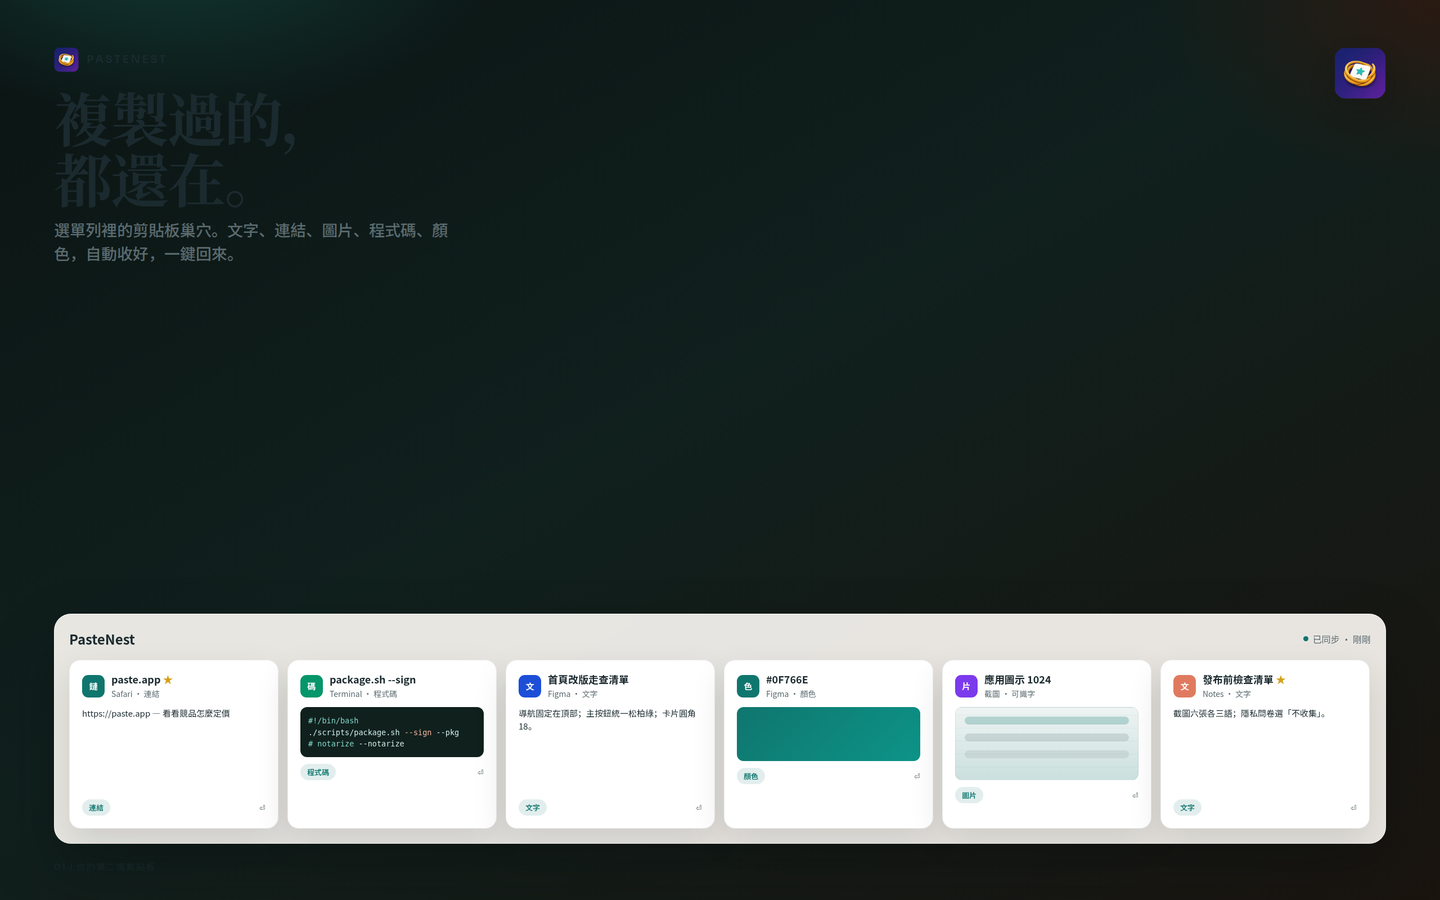
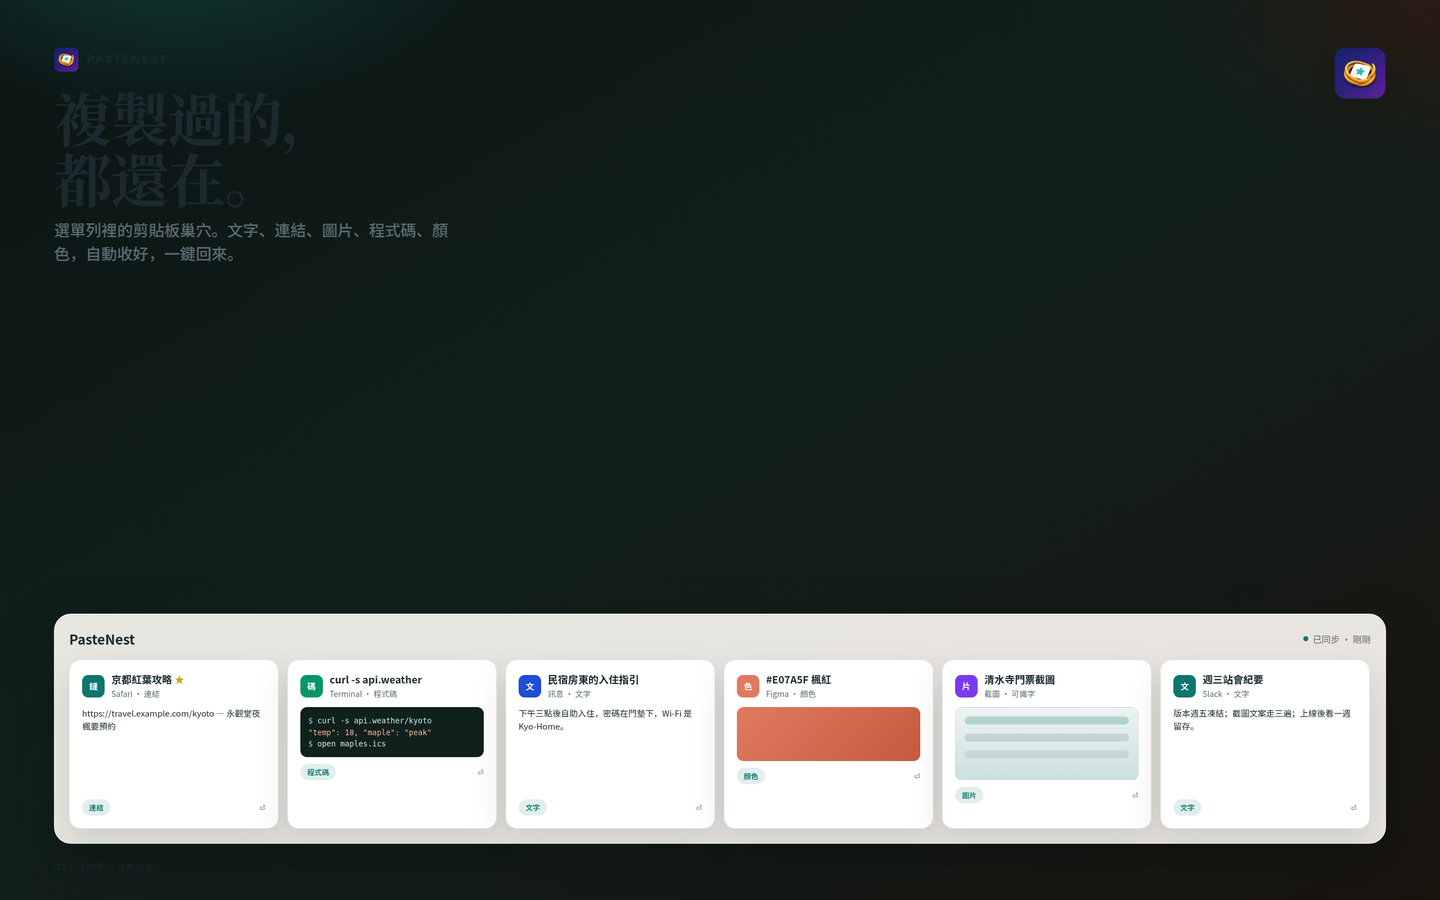
Recast App Store demo content around a Kyoto travel story.
Swap the launch-checklist scenes for a relatable trip-planning thread
(foliage guide, check-in note, ticket OCR, maple color) so the boards
read as real life rather than product self-reference.

diff --git a/docs/app-store/artboard.html b/docs/app-store/artboard.html
@@ -112,7 +112,7 @@
     #b1 .ccard .cbody { flex: 1; margin-top: 14px; font-size: 15px; line-height: 1.5; color: var(--ink); overflow: hidden; }
     #b1 .ccard .cfoot { margin-top: 12px; display: flex; align-items: center; justify-content: space-between; }
     #b1 .chip { display: inline-flex; padding: 5px 12px; border-radius: 999px; font-size: 13px; font-weight: 600; background: rgba(15,118,110,.12); color: var(--accent); }
-    #b1 .swatch { height: 96px; border-radius: 12px; background: linear-gradient(135deg,#0f766e,#0d9488); margin-top: 14px; }
+    #b1 .swatch { height: 96px; border-radius: 12px; background: linear-gradient(135deg,#e07a5f,#c65a3e); margin-top: 14px; }
     #b1 .thumb { height: 130px; border-radius: 12px; margin-top: 14px; background:
       linear-gradient(180deg, rgba(15,118,110,.0), rgba(15,118,110,.16)),
       repeating-linear-gradient(0deg,#eef4f3 0 22px,#e2eceb 22px 23px); border:1px solid var(--line); position: relative; }
@@ -439,83 +439,83 @@
       "zh-Hans": {
         1: { k: "PasteNest", h: "复制过的，<br>都还在。", s: "菜单栏里的剪贴板巢穴。文字、链接、图片、代码、颜色，自动收好，一键回来。", sync: "已同步 · 刚刚", c: "01  /  你的第二块剪贴板",
              cards: [
-               { badge: "链", bg: "#0f766e", title: "paste.app", meta: "Safari · 链接", chip: "链接", star: 1, body: "https://paste.app — 看看竞品怎么定价" },
-               { badge: "码", bg: "#059669", title: "package.sh --sign", meta: "Terminal · 代码", chip: "代码", code: true },
-               { badge: "文", bg: "#1d4ed8", title: "首页改版走查清单", meta: "Figma · 文本", chip: "文本", body: "导航固定在顶部；主按钮统一松柏绿；卡片圆角 18。" },
-               { badge: "色", bg: "#0f766e", title: "#0F766E", meta: "Figma · 颜色", chip: "颜色", swatch: true },
-               { badge: "片", bg: "#7c3aed", title: "应用图标 1024", meta: "截图 · 可识字", chip: "图片", thumb: true },
-               { badge: "文", bg: "#e07a5f", title: "发布前检查清单", meta: "Notes · 文本", chip: "文本", star: 1, body: "截图六张各三语；隐私问卷选「不收集」。" }
+               { badge: "链", bg: "#0f766e", title: "京都红叶攻略", meta: "Safari · 链接", chip: "链接", star: 1, body: "https://travel.example.com/kyoto — 永观堂夜枫要预约" },
+               { badge: "码", bg: "#059669", title: "curl -s api.weather", meta: "Terminal · 代码", chip: "代码", code: true },
+               { badge: "文", bg: "#1d4ed8", title: "民宿房东的入住指引", meta: "信息 · 文本", chip: "文本", body: "下午三点后自助入住，密码在门垫下，Wi-Fi 是 Kyo-Home。" },
+               { badge: "色", bg: "#e07a5f", title: "#E07A5F 枫红", meta: "Figma · 颜色", chip: "颜色", swatch: true },
+               { badge: "片", bg: "#7c3aed", title: "清水寺门票截图", meta: "截图 · 可识字", chip: "图片", thumb: true },
+               { badge: "文", bg: "#0f766e", title: "周三站会纪要", meta: "Slack · 文本", chip: "文本", body: "版本周五冻结；截图文案走三遍；上线后看一周留存。" }
              ] },
         2: { k: "全局快捷键", h: "按一下，<br>它就来了。", s: "底部货架、主窗口、截图各有独立快捷键。录下即刻生效，被占用会提醒，一键恢复默认。", k2: "唤出底部货架 · 回车粘贴", c: "02  /  手不离开键盘",
              setH: "全局快捷键", r1: "唤出剪贴板面板", r2: "唤出主窗口", r3: "截图（区域）", live: "已生效" },
         3: { k: "区域截图", h: "截图像发一条消息。", s: "冻结屏幕，拖出选区，矩形 / 箭头 / 画笔 / 马赛克 / 文字标注，确认后进入剪贴板与历史。", c: "03  /  标注完，直接复用" },
         4: { k: "识别文字", h: "图里的字，<br>也能搜。", s: "本机 Vision 识别中英文。可选复制，或只留文字不要图。链接会自动变成链接条目。", c: "04  /  字留在你的电脑上",
-             ocrH: "识别到的文字", ocrN: "42 字", ocrT: "把设计稿里的主按钮改成松柏绿，<br>圆角 12，悬停时上浮 1px。<br><span class=\"sel\">https://figma.com/file/pastenest</span>", cancel: "取消", copy: "复制" },
+             ocrH: "识别到的文字", ocrN: "38 字", ocrT: "清水寺 夜间特别参拜<br>11月18日 – 11月30日<br>成人 400円<br><span class=\"sel\">https://kiyomizu-dera.example.com</span>", cancel: "取消", copy: "复制" },
         5: { k: "搜索与分类", h: "不用整理，<br>它自己认得。", s: "链接、代码、颜色、文件自动打标。搜索标题、正文、来源应用，实时出结果。", c: "05  /  找得到，才算数",
-             lib: "资料库", brd: "看板", nav: ["全部","文本","链接","代码","图片","工作","灵感"], q: "设计", hits: "3 条命中",
+             lib: "资料库", brd: "看板", nav: ["全部","文本","链接","代码","图片","旅行","灵感"], q: "京都", hits: "3 条命中",
              rows: [
-               { badge: "文", bg: "#1d4ed8", title: "首页改版走查清单", meta: "Figma · 今天", on: 1 },
-               { badge: "链", bg: "#0f766e", title: "figma.com/file/pastenest", meta: "Safari · 昨天" },
-               { badge: "色", bg: "#0f766e", title: "#0F766E 松柏绿", meta: "Figma · 昨天" }
+               { badge: "链", bg: "#0f766e", title: "京都红叶攻略", meta: "Safari · 今天", on: 1 },
+               { badge: "片", bg: "#7c3aed", title: "清水寺门票截图", meta: "截图 · 昨天" },
+               { badge: "文", bg: "#1d4ed8", title: "民宿入住指引", meta: "信息 · 昨天" }
              ],
-             pvChip: "文本", pvTitle: "首页改版走查清单", pvBody: "导航固定在顶部；主按钮统一松柏绿；卡片圆角 18；列表行高 56。", m1: "来源", m2: "时间", m2v: "今天 14:32", m3: "类型", m3v: "文本" },
+             pvChip: "链接", pvTitle: "京都红叶攻略", pvBody: "永观堂夜枫要预约；清水寺夜间参拜 400 円；嵯峨野小火车买偶数日票。", m1: "来源", m2: "时间", m2v: "今天 09:12", m3: "类型", m3v: "链接" },
         6: { k: "收藏与隐私", h: "重要的，<br>留下来。", s: "收藏长期保存，其余按你设定的天数自动清理。iCloud 可选，数据走你的 Apple ID，我们碰不到。", p1: "收藏夹独立面板，可打标签", p2: "未收藏内容默认 3 天后清理", p3: "无广告、无追踪、无账号体系", c: "06  /  只存在你的 Mac 上",
-             dTitle: "发布前检查清单", dBody: "截图六张各三语；副标题「复制过的，都还在」；隐私问卷选「不收集」；价格 ¥28 买断。", t1: "工作", t2: "发布", t3: "长期保存",
-             s1: "Safari · 链接", s2: "Terminal · 代码", s3: "截图 · 可识字", s3t: "应用图标 1024" }
+             dTitle: "民宿房东的入住指引", dBody: "下午三点后自助入住，密码在门垫下，Wi-Fi 是 Kyo-Home。退房上午十点前，垃圾按可燃 / 瓶罐分。", t1: "旅行", t2: "京都", t3: "长期保存",
+             s1: "Safari · 链接", s2: "Terminal · 代码", s3: "截图 · 可识字", s3t: "清水寺门票截图" }
       },
       "zh-Hant": {
         1: { k: "PasteNest", h: "複製過的，<br>都還在。", s: "選單列裡的剪貼板巢穴。文字、連結、圖片、程式碼、顏色，自動收好，一鍵回來。", sync: "已同步 · 剛剛", c: "01  /  你的第二塊剪貼板",
              cards: [
-               { badge: "鏈", bg: "#0f766e", title: "paste.app", meta: "Safari · 連結", chip: "連結", star: 1, body: "https://paste.app — 看看競品怎麼定價" },
-               { badge: "碼", bg: "#059669", title: "package.sh --sign", meta: "Terminal · 程式碼", chip: "程式碼", code: true },
-               { badge: "文", bg: "#1d4ed8", title: "首頁改版走查清單", meta: "Figma · 文字", chip: "文字", body: "導航固定在頂部；主按鈕統一松柏綠；卡片圓角 18。" },
-               { badge: "色", bg: "#0f766e", title: "#0F766E", meta: "Figma · 顏色", chip: "顏色", swatch: true },
-               { badge: "片", bg: "#7c3aed", title: "應用圖示 1024", meta: "截圖 · 可識字", chip: "圖片", thumb: true },
-               { badge: "文", bg: "#e07a5f", title: "發布前檢查清單", meta: "Notes · 文字", chip: "文字", star: 1, body: "截圖六張各三語；隱私問卷選「不收集」。" }
+               { badge: "鏈", bg: "#0f766e", title: "京都紅葉攻略", meta: "Safari · 連結", chip: "連結", star: 1, body: "https://travel.example.com/kyoto — 永觀堂夜楓要預約" },
+               { badge: "碼", bg: "#059669", title: "curl -s api.weather", meta: "Terminal · 程式碼", chip: "程式碼", code: true },
+               { badge: "文", bg: "#1d4ed8", title: "民宿房東的入住指引", meta: "訊息 · 文字", chip: "文字", body: "下午三點後自助入住，密碼在門墊下，Wi-Fi 是 Kyo-Home。" },
+               { badge: "色", bg: "#e07a5f", title: "#E07A5F 楓紅", meta: "Figma · 顏色", chip: "顏色", swatch: true },
+               { badge: "片", bg: "#7c3aed", title: "清水寺門票截圖", meta: "截圖 · 可識字", chip: "圖片", thumb: true },
+               { badge: "文", bg: "#0f766e", title: "週三站會紀要", meta: "Slack · 文字", chip: "文字", body: "版本週五凍結；截圖文案走三遍；上線後看一週留存。" }
              ] },
         2: { k: "全域快捷鍵", h: "按一下，<br>它就來了。", s: "底部貨架、主視窗、截圖各有獨立快捷鍵。錄下即刻生效，被佔用會提醒，一鍵恢復預設。", k2: "喚出底部貨架 · 回車貼上", c: "02  /  手不離開鍵盤",
              setH: "全域快捷鍵", r1: "喚出剪貼板面板", r2: "喚出主視窗", r3: "截圖（區域）", live: "已生效" },
         3: { k: "區域截圖", h: "截圖像發一條訊息。", s: "凍結螢幕，拖出選區，矩形 / 箭頭 / 畫筆 / 馬賽克 / 文字標註，確認後進入剪貼板與歷史。", c: "03  /  標註完，直接複用" },
         4: { k: "辨識文字", h: "圖裡的字，<br>也能搜。", s: "本機 Vision 辨識中英文。可選複製，或只留文字不要圖。連結會自動變成連結條目。", c: "04  /  字留在你的電腦上",
-             ocrH: "辨識到的文字", ocrN: "42 字", ocrT: "把設計稿裡的主按鈕改成松柏綠，<br>圓角 12，懸停時上浮 1px。<br><span class=\"sel\">https://figma.com/file/pastenest</span>", cancel: "取消", copy: "複製" },
+             ocrH: "辨識到的文字", ocrN: "38 字", ocrT: "清水寺 夜間特別參拜<br>11月18日 – 11月30日<br>成人 400円<br><span class=\"sel\">https://kiyomizu-dera.example.com</span>", cancel: "取消", copy: "複製" },
         5: { k: "搜尋與分類", h: "不用整理，<br>它自己認得。", s: "連結、程式碼、顏色、檔案自動打標。搜尋標題、正文、來源應用，即時出結果。", c: "05  /  找得到，才算數",
-             lib: "資料庫", brd: "看板", nav: ["全部","文字","連結","程式碼","圖片","工作","靈感"], q: "設計", hits: "3 筆命中",
+             lib: "資料庫", brd: "看板", nav: ["全部","文字","連結","程式碼","圖片","旅行","靈感"], q: "京都", hits: "3 筆命中",
              rows: [
-               { badge: "文", bg: "#1d4ed8", title: "首頁改版走查清單", meta: "Figma · 今天", on: 1 },
-               { badge: "鏈", bg: "#0f766e", title: "figma.com/file/pastenest", meta: "Safari · 昨天" },
-               { badge: "色", bg: "#0f766e", title: "#0F766E 松柏綠", meta: "Figma · 昨天" }
+               { badge: "鏈", bg: "#0f766e", title: "京都紅葉攻略", meta: "Safari · 今天", on: 1 },
+               { badge: "片", bg: "#7c3aed", title: "清水寺門票截圖", meta: "截圖 · 昨天" },
+               { badge: "文", bg: "#1d4ed8", title: "民宿入住指引", meta: "訊息 · 昨天" }
              ],
-             pvChip: "文字", pvTitle: "首頁改版走查清單", pvBody: "導航固定在頂部；主按鈕統一松柏綠；卡片圓角 18；列表行高 56。", m1: "來源", m2: "時間", m2v: "今天 14:32", m3: "類型", m3v: "文字" },
+             pvChip: "連結", pvTitle: "京都紅葉攻略", pvBody: "永觀堂夜楓要預約；清水寺夜間參拜 400 円；嵯峨野小火車買偶數日票。", m1: "來源", m2: "時間", m2v: "今天 09:12", m3: "類型", m3v: "連結" },
         6: { k: "收藏與隱私", h: "重要的，<br>留下來。", s: "收藏長期保存，其餘按你設定的天數自動清理。iCloud 可選，資料走你的 Apple ID，我們碰不到。", p1: "收藏夾獨立面板，可打標籤", p2: "未收藏內容預設 3 天後清理", p3: "無廣告、無追蹤、無帳號體系", c: "06  /  只存在你的 Mac 上",
-             dTitle: "發布前檢查清單", dBody: "截圖六張各三語；副標題「複製過的，都還在」；隱私問卷選「不收集」；價格 ¥28 買斷。", t1: "工作", t2: "發布", t3: "長期保存",
-             s1: "Safari · 連結", s2: "Terminal · 程式碼", s3: "截圖 · 可識字", s3t: "應用圖示 1024" }
+             dTitle: "民宿房東的入住指引", dBody: "下午三點後自助入住，密碼在門墊下，Wi-Fi 是 Kyo-Home。退房上午十點前，垃圾按可燃 / 瓶罐分。", t1: "旅行", t2: "京都", t3: "長期保存",
+             s1: "Safari · 連結", s2: "Terminal · 程式碼", s3: "截圖 · 可識字", s3t: "清水寺門票截圖" }
       },
       en: {
         1: { k: "PasteNest", h: "Everything you copy,<br>still here.", s: "A clipboard nest in your menu bar. Text, links, images, code, and colors — tucked away, one tap back.", sync: "Synced · just now", c: "01  /  A second clipboard",
              cards: [
-               { badge: "⧉", bg: "#0f766e", title: "paste.app", meta: "Safari · Link", chip: "Link", star: 1, body: "https://paste.app — see how rivals price it" },
-               { badge: "‹›", bg: "#059669", title: "package.sh --sign", meta: "Terminal · Code", chip: "Code", code: true },
-               { badge: "¶", bg: "#1d4ed8", title: "Homepage review checklist", meta: "Figma · Text", chip: "Text", body: "Pin the nav; one pine-green primary button; 18px card corners." },
-               { badge: "●", bg: "#0f766e", title: "#0F766E", meta: "Figma · Color", chip: "Color", swatch: true },
-               { badge: "▦", bg: "#7c3aed", title: "App icon 1024", meta: "Screenshot · OCR", chip: "Image", thumb: true },
-               { badge: "¶", bg: "#e07a5f", title: "Pre-launch checklist", meta: "Notes · Text", chip: "Text", star: 1, body: "Six screenshots × three languages; privacy: “no data collected”." }
+               { badge: "⧉", bg: "#0f766e", title: "Kyoto foliage guide", meta: "Safari · Link", chip: "Link", star: 1, body: "https://travel.example.com/kyoto — book Eikando night maples" },
+               { badge: "‹›", bg: "#059669", title: "curl -s api.weather", meta: "Terminal · Code", chip: "Code", code: true },
+               { badge: "¶", bg: "#1d4ed8", title: "Host's check-in note", meta: "Messages · Text", chip: "Text", body: "Self check-in after 3pm, code under the mat, Wi-Fi is Kyo-Home." },
+               { badge: "●", bg: "#e07a5f", title: "#E07A5F maple", meta: "Figma · Color", chip: "Color", swatch: true },
+               { badge: "▦", bg: "#7c3aed", title: "Kiyomizu ticket shot", meta: "Screenshot · OCR", chip: "Image", thumb: true },
+               { badge: "¶", bg: "#0f766e", title: "Wednesday standup", meta: "Slack · Text", chip: "Text", body: "Freeze Friday; run the store copy three times; watch week-one retention." }
              ] },
         2: { k: "Global hotkeys", h: "One press,<br>and it's here.", s: "The shelf, main window, and screenshot each get their own hotkey. Changes apply instantly; taken combos are flagged; one click restores defaults.", k2: "Show the shelf · Enter pastes", c: "02  /  Hands stay on the keyboard",
              setH: "Global hotkeys", r1: "Show clipboard shelf", r2: "Show main window", r3: "Screenshot (region)", live: "Active" },
         3: { k: "Region screenshot", h: "Screenshot like sending a message.", s: "Freeze the screen, drag a region, mark it up with rectangles, arrows, pen, mosaic, or text — it lands in your clipboard and history.", c: "03  /  Annotate, then reuse" },
         4: { k: "Recognize text", h: "Words in images,<br>searchable.", s: "On-device Vision reads Chinese and English. Copy what you select, or keep only the text. Links become link items automatically.", c: "04  /  Text stays on your Mac",
-             ocrH: "Recognized text", ocrN: "9 words", ocrT: "Make the primary button pine green,<br>12px radius, lift 1px on hover.<br><span class=\"sel\">https://figma.com/file/pastenest</span>", cancel: "Cancel", copy: "Copy" },
+             ocrH: "Recognized text", ocrN: "14 words", ocrT: "Kiyomizu-dera night visit<br>Nov 18 – Nov 30<br>Adults ¥400<br><span class=\"sel\">https://kiyomizu-dera.example.com</span>", cancel: "Cancel", copy: "Copy" },
         5: { k: "Search & tags", h: "No tidying.<br>It just knows.", s: "Links, code, colors, and files tag themselves. Search titles, bodies, and source apps — results appear as you type.", c: "05  /  Find it, or it doesn't count",
-             lib: "Library", brd: "Boards", nav: ["All","Text","Links","Code","Images","Work","Ideas"], q: "design", hits: "3 matches",
+             lib: "Library", brd: "Boards", nav: ["All","Text","Links","Code","Images","Travel","Ideas"], q: "kyoto", hits: "3 matches",
              rows: [
-               { badge: "¶", bg: "#1d4ed8", title: "Homepage review checklist", meta: "Figma · Today", on: 1 },
-               { badge: "⧉", bg: "#0f766e", title: "figma.com/file/pastenest", meta: "Safari · Yesterday" },
-               { badge: "●", bg: "#0f766e", title: "#0F766E pine green", meta: "Figma · Yesterday" }
+               { badge: "⧉", bg: "#0f766e", title: "Kyoto foliage guide", meta: "Safari · Today", on: 1 },
+               { badge: "▦", bg: "#7c3aed", title: "Kiyomizu ticket shot", meta: "Screenshot · Yesterday" },
+               { badge: "¶", bg: "#1d4ed8", title: "Host's check-in note", meta: "Messages · Yesterday" }
              ],
-             pvChip: "Text", pvTitle: "Homepage review checklist", pvBody: "Pin the nav; one pine-green primary button; 18px card corners; 56px list rows.", m1: "Source", m2: "Copied", m2v: "Today 2:32 PM", m3: "Type", m3v: "Text" },
+             pvChip: "Link", pvTitle: "Kyoto foliage guide", pvBody: "Book Eikando night maples; Kiyomizu night visit ¥400; take the Sagano train on even days.", m1: "Source", m2: "Copied", m2v: "Today 9:12 AM", m3: "Type", m3v: "Link" },
         6: { k: "Saved & private", h: "What matters,<br>stays.", s: "Saved items keep forever; the rest clear after the days you set. iCloud is optional and goes through your Apple ID — we never see your data.", p1: "A separate Saved panel with tags", p2: "Unsaved items clear after 3 days", p3: "No ads, no tracking, no accounts", c: "06  /  Only on your Mac",
-             dTitle: "Pre-launch checklist", dBody: "Six screenshots in three languages; subtitle “Everything you copy, still here”; privacy “no data collected”; $4.99 one-time.", t1: "Work", t2: "Launch", t3: "Kept forever",
-             s1: "Safari · Link", s2: "Terminal · Code", s3: "Screenshot · OCR", s3t: "App icon 1024" }
+             dTitle: "Host's check-in note", dBody: "Self check-in after 3pm, code under the mat, Wi-Fi is Kyo-Home. Check out by 10am; sort burnables from cans and bottles.", t1: "Travel", t2: "Kyoto", t3: "Kept forever",
+             s1: "Safari · Link", s2: "Terminal · Code", s3: "Screenshot · OCR", s3t: "Kiyomizu ticket shot" }
       }
     };
     const t = (L[lang] || L["zh-Hans"])[n] || L["zh-Hans"][n];
@@ -534,7 +534,7 @@
       const wrap = board.querySelector("#heroCards");
       wrap.innerHTML = t.cards.map((c) => {
         let inner = "";
-        if (c.code) inner = `<div class="code"><span class="k">#!/bin/bash</span><br>./scripts/package.sh <span class="s">--sign</span> --pkg<br><span class="k"># notarize</span> --notarize</div>`;
+        if (c.code) inner = `<div class="code"><span class="k">$</span> curl -s api.weather/kyoto<br><span class="s">"temp": 18, "maple": "peak"</span><br><span class="k">$</span> open maples.ics</div>`;
         else if (c.swatch) inner = `<div class="swatch"></div>`;
         else if (c.thumb) inner = `<div class="thumb"></div>`;
         else inner = `<div class="cbody">${c.body || ""}</div>`;
